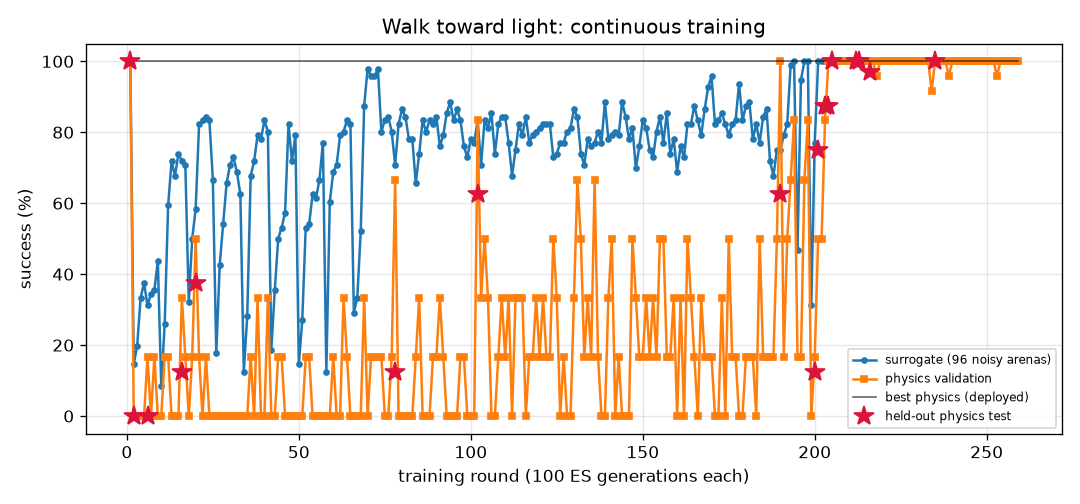
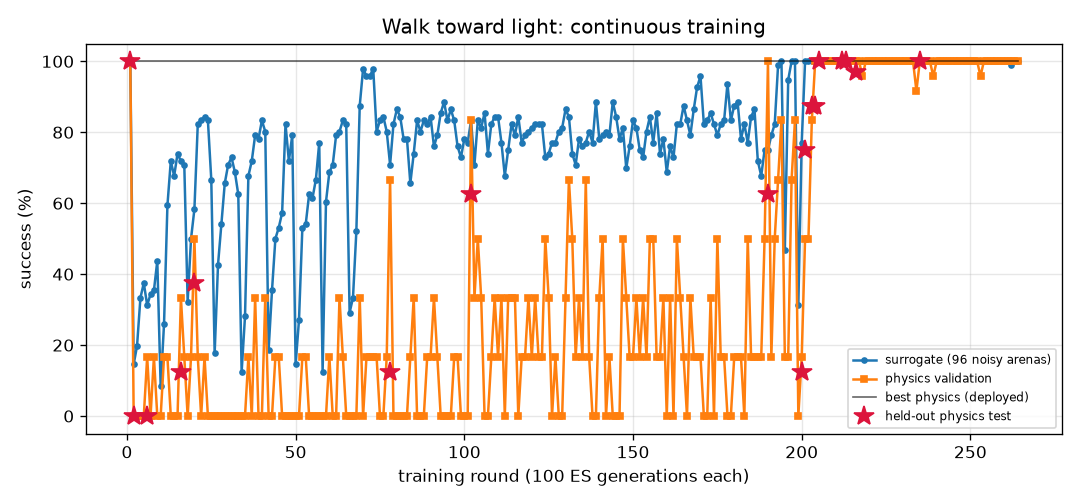
FlyLab: continuous training progress
- walk_forward: optimal, physics val 100% of 24, round 72
- turn: optimal, physics val 100% of 24, round 301
- goto: optimal, physics val 100% of 24, round 77
- odor_seek: optimal, physics val 100% of 24, round 81
- odor_avoid: optimal, physics val 100% of 24, round 395
- light_seek: optimal, physics val 100% of 24, round 264
- light_avoid: optimal, physics val 100% of 24, round 174

diff --git a/projects/09_flylab/training/light_seek/REPORT.md b/projects/09_flylab/training/light_seek/REPORT.md
@@ -1,14 +1,14 @@
 # Walk toward light (`light_seek`) — training report
 
-*Auto-generated by `train_brains.py`, last updated 2026-10-10T21:31:26.*
+*Auto-generated by `train_brains.py`, last updated 2026-10-11T12:32:59.*
 
 ![curve](curve.png)
 
 | | |
 |---|---|
-| rounds | 259 |
-| ES generations | 25900 |
-| physics runs | 2968 |
+| rounds | 264 |
+| ES generations | 26400 |
+| physics runs | 3088 |
 | status | **optimal** |
 | best brain | round 235: physics validation **100%** on 24 arenas, surrogate 100% |
 | held-out physics test | **100%** on 32 unseen arenas (95% CI 89%-100%) (errors: [0.42, 0.43, 0.43, 0.46, 0.47, 0.42, 0.43, 0.45, 0.47, 0.5, 0.42, 0.42, 0.47, 0.88, 0.89, 0.46, 0.46, 0.43, 0.45, 0.48, 0.43, 0.84, 0.43, 0.43, 0.43, 0.44, 0.44, 0.47, 0.44, 0.43, 0.44, 0.8]) |
@@ -17,11 +17,6 @@ Physics error per arena: mm from target at the end (< 1.5 and standing still = s
 
 | round | level | gens | sigma | surrogate | physics val | val errors | test | note |
 |---:|---:|---:|---:|---:|---:|---|---:|---|
-| 220 | 3 | 22000 | 0.024 | 100% | 100% | [0.63, 0.54, 0.53, 0.55, 0.49, 0.63, 0.69, 0.6, 0.54, 0.56, 0.48, 1.4, 0.49, 0.48, 0.96, 0.52, 0.49, 0.49, 0.57, 0.5, 0.65, 0.55, 0.56, 0.49] |  | restart from best |
-| 221 | 3 | 22100 | 0.024 | 100% | 100% | [0.74, 0.8, 0.56, 0.58, 0.68, 0.76, 0.65, 0.61, 0.57, 0.5, 0.54, 0.64, 0.6, 1.23, 0.51, 0.66, 1.11, 0.54, 0.66, 1.02, 0.66, 0.67, 1.2, 0.98] |  |  |
-| 222 | 3 | 22200 | 0.024 | 100% | 100% | [1.1, 0.59, 0.64, 0.47, 0.67, 0.59, 0.73, 0.59, 0.52, 0.82, 0.56, 0.5, 0.47, 0.47, 0.51, 0.49, 0.48, 0.68, 0.63, 0.99, 0.48, 0.99, 0.47, 0.6] |  |  |
-| 223 | 3 | 22300 | 0.024 | 100% | 100% | [0.99, 0.51, 0.47, 0.46, 0.45, 0.57, 0.43, 0.42, 0.45, 0.45, 0.46, 0.49, 0.55, 0.45, 0.43, 0.63, 0.54, 0.42, 0.43, 0.46, 0.47, 0.47, 0.54, 0.79] |  |  |
-| 224 | 3 | 22400 | 0.024 | 100% | 100% | [0.93, 0.52, 0.78, 0.48, 0.88, 0.48, 0.6, 0.97, 0.61, 0.51, 0.45, 0.53, 0.52, 0.97, 0.53, 0.62, 0.48, 0.54, 0.64, 0.57, 0.69, 1.02, 0.6, 0.96] |  | restart from best |
 | 225 | 3 | 22500 | 0.024 | 100% | 100% | [0.4, 0.6, 0.47, 0.41, 0.41, 0.48, 0.41, 0.49, 0.57, 0.54, 0.44, 0.43, 0.96, 0.55, 0.53, 0.43, 0.86, 0.48, 0.42, 0.46, 0.41, 0.52, 0.41, 0.49] |  |  |
 | 226 | 3 | 22600 | 0.024 | 100% | 100% | [0.49, 0.43, 0.41, 0.42, 0.45, 0.41, 0.41, 0.43, 0.45, 0.41, 0.41, 0.41, 0.42, 0.41, 0.42, 0.41, 0.41, 0.41, 0.47, 0.41, 0.43, 0.41, 0.4, 0.46] |  |  |
 | 227 | 3 | 22700 | 0.024 | 100% | 100% | [0.53, 0.57, 1.32, 0.5, 0.51, 0.47, 0.48, 0.48, 0.57, 0.54, 0.53, 0.58, 0.48, 0.49, 0.46, 0.46, 0.62, 0.52, 0.55, 0.49, 0.85, 0.93, 0.49, 0.5] |  |  |
@@ -57,3 +52,8 @@ Physics error per arena: mm from target at the end (< 1.5 and standing still = s
 | 257 | 3 | 25700 | 0.024 | 100% | 100% | [0.63, 0.46, 0.53, 0.47, 0.45, 0.59, 0.65, 0.59, 0.56, 0.49, 0.42, 0.57, 0.43, 0.55, 0.42, 0.51, 0.54, 0.56, 0.54, 0.51, 0.72, 1.01, 0.6, 0.96] |  |  |
 | 258 | 3 | 25800 | 0.024 | 100% | 100% | [0.48, 0.49, 0.43, 0.95, 0.43, 0.7, 0.51, 0.57, 0.51, 0.44, 0.44, 0.42, 0.45, 0.45, 0.43, 0.44, 0.47, 0.51, 0.47, 0.44, 0.43, 1.12, 0.44, 0.68] |  |  |
 | 259 | 3 | 25900 | 0.024 | 100% | 100% | [1.12, 0.48, 0.44, 0.47, 0.46, 0.97, 0.64, 0.55, 1.06, 0.43, 0.49, 0.62, 0.47, 0.8, 0.53, 0.65, 0.67, 0.66, 0.48, 0.55, 0.56, 1.05, 0.56, 0.42] |  | restart from best |
+| 260 | 3 | 26000 | 0.024 | 100% | 100% | [0.48, 0.52, 0.48, 1.19, 0.46, 0.47, 0.47, 0.48, 0.46, 0.48, 0.49, 0.47, 0.51, 0.57, 0.79, 0.46, 0.46, 0.92, 0.57, 0.49, 0.86, 0.52, 0.56, 0.49] |  |  |
+| 261 | 3 | 26100 | 0.024 | 100% | 100% | [0.48, 0.6, 0.46, 0.82, 0.55, 0.45, 0.5, 0.44, 0.45, 0.48, 0.45, 0.47, 0.48, 0.52, 0.86, 0.45, 0.7, 0.59, 0.74, 0.48, 0.45, 0.47, 0.5, 0.45] |  |  |
+| 262 | 3 | 26200 | 0.024 | 99% | 100% | [0.94, 0.74, 0.58, 0.87, 0.73, 0.96, 0.88, 1.1, 0.6, 0.55, 0.57, 0.5, 1.21, 0.93, 0.62, 0.57, 0.6, 0.94, 0.58, 0.59, 0.57, 0.82, 0.53, 0.53] |  |  |
+| 263 | 3 | 26300 | 0.025 | 100% | 100% | [0.45, 0.45, 0.53, 0.44, 0.5, 0.54, 0.53, 0.45, 0.74, 0.51, 0.5, 0.53, 0.52, 0.45, 0.5, 0.45, 0.46, 0.51, 0.46, 0.98, 0.88, 0.45, 0.48, 0.54] |  | restart from best |
+| 264 | 3 | 26400 | 0.024 | 100% | 100% | [0.53, 0.46, 0.42, 0.61, 0.48, 0.51, 0.41, 0.48, 0.49, 0.43, 0.5, 0.47, 0.42, 0.53, 0.42, 0.44, 0.43, 0.42, 0.45, 0.42, 0.5, 0.49, 0.61, 0.43] |  |  |

diff --git a/projects/09_flylab/training/goto/REPORT.md b/projects/09_flylab/training/goto/REPORT.md
@@ -1,14 +1,14 @@
 # Go to a location (`goto`) — training report
 
-*Auto-generated by `train_brains.py`, last updated 2026-10-10T21:56:50.*
+*Auto-generated by `train_brains.py`, last updated 2026-10-11T12:27:18.*
 
 ![curve](curve.png)
 
 | | |
 |---|---|
-| rounds | 73 |
-| ES generations | 7300 |
-| physics runs | 1542 |
+| rounds | 77 |
+| ES generations | 7700 |
+| physics runs | 1638 |
 | status | **optimal** |
 | best brain | round 46: physics validation **100%** on 24 arenas, surrogate 100% |
 | held-out physics test | **100%** on 32 unseen arenas (95% CI 89%-100%) (errors: [0.51, 0.56, 0.44, 0.63, 0.46, 0.45, 0.47, 0.6, 0.49, 0.48, 0.49, 0.47, 0.44, 0.55, 0.6, 0.51, 0.48, 0.52, 0.45, 0.45, 0.52, 0.49, 0.58, 0.47, 0.45, 0.46, 0.55, 0.46, 0.44, 0.58, 0.63, 0.61]) |
@@ -17,10 +17,6 @@ Physics error per arena: mm from target at the end (< 1.5 and standing still = s
 
 | round | level | gens | sigma | surrogate | physics val | val errors | test | note |
 |---:|---:|---:|---:|---:|---:|---|---:|---|
-| 34 | 3 | 3400 | 0.026 | 100% | 100% | [0.75, 0.72, 0.64, 0.62, 0.75, 0.64, 0.73, 0.68, 0.66, 0.63, 0.74, 0.62, 0.69, 0.61, 0.65, 0.7, 0.75, 0.66, 0.64, 0.64, 0.71, 0.64, 0.71, 0.62] |  |  |
-| 35 | 3 | 3500 | 0.024 | 100% | 100% | [0.8, 0.78, 0.65, 0.64, 0.77, 0.65, 0.79, 0.68, 0.7, 0.64, 0.74, 0.64, 0.71, 0.63, 0.64, 0.7, 0.8, 0.7, 0.64, 0.67, 0.74, 0.64, 0.73, 0.62] | 100% | new best |
-| 36 | 3 | 3600 | 0.024 | 100% | 100% | [0.68, 0.65, 0.5, 0.51, 0.67, 0.51, 0.67, 0.55, 0.58, 0.52, 0.64, 0.5, 0.58, 0.51, 0.54, 0.58, 0.69, 0.55, 0.51, 0.55, 0.6, 0.51, 0.62, 0.49] | 100% | new best |
-| 37 | 3 | 3700 | 0.024 | 100% | 100% | [0.95, 0.96, 0.79, 0.8, 0.95, 0.81, 0.92, 0.81, 0.89, 0.81, 0.92, 0.8, 0.88, 0.83, 0.87, 0.89, 0.93, 0.83, 0.81, 0.86, 0.87, 0.8, 0.91, 0.82] |  |  |
 | 38 | 3 | 3800 | 0.024 | 100% | 100% | [0.74, 0.71, 0.55, 0.57, 0.72, 0.56, 0.72, 0.6, 0.64, 0.57, 0.63, 0.57, 0.65, 0.56, 0.62, 0.66, 0.75, 0.6, 0.56, 0.63, 0.63, 0.57, 0.67, 0.57] | 100% | new best |
 | 39 | 3 | 3900 | 0.024 | 100% | 100% | [0.9, 0.85, 0.73, 0.74, 0.77, 0.73, 0.9, 0.72, 0.84, 0.68, 0.76, 0.72, 0.82, 0.65, 0.71, 0.75, 0.88, 0.74, 0.68, 0.81, 0.73, 0.7, 0.86, 0.74] |  |  |
 | 40 | 3 | 4000 | 0.024 | 99% | 100% | [0.51, 0.48, 0.35, 0.37, 0.5, 0.38, 0.51, 0.39, 0.4, 0.36, 0.43, 0.38, 0.43, 0.35, 0.34, 0.42, 0.5, 0.41, 0.36, 0.41, 0.42, 0.36, 0.45, 0.36] | 100% | new best |
@@ -57,3 +53,7 @@ Physics error per arena: mm from target at the end (< 1.5 and standing still = s
 | 71 | 3 | 7100 | 0.024 | 100% | 100% | [0.76, 0.73, 0.57, 0.59, 0.71, 0.59, 0.75, 0.6, 0.65, 0.58, 0.69, 0.58, 0.67, 0.56, 0.58, 0.64, 0.75, 0.61, 0.56, 0.64, 0.63, 0.57, 0.71, 0.58] |  |  |
 | 72 | 3 | 7200 | 0.024 | 98% | 100% | [0.81, 0.83, 0.67, 0.69, 0.83, 0.74, 0.78, 0.71, 0.71, 0.66, 0.76, 0.68, 0.8, 0.63, 0.6, 0.71, 0.83, 0.78, 0.67, 0.73, 0.72, 0.65, 0.82, 0.69] |  |  |
 | 73 | 3 | 7300 | 0.025 | 100% | 100% | [0.74, 0.75, 0.6, 0.66, 0.77, 0.64, 0.76, 0.68, 0.7, 0.62, 0.68, 0.64, 0.72, 0.61, 0.71, 0.69, 0.75, 0.63, 0.61, 0.7, 0.68, 0.63, 0.75, 0.64] |  |  |
+| 74 | 3 | 7400 | 0.024 | 100% | 100% | [0.68, 0.66, 0.49, 0.51, 0.52, 0.5, 0.67, 0.59, 0.53, 0.51, 0.53, 0.5, 0.57, 0.51, 0.55, 0.63, 0.59, 0.52, 0.51, 0.54, 0.6, 0.51, 0.59, 0.49] |  | restart from best |
+| 75 | 3 | 7500 | 0.024 | 100% | 100% | [0.77, 0.76, 0.58, 0.59, 0.58, 0.61, 0.72, 0.65, 0.63, 0.58, 0.57, 0.59, 0.69, 0.56, 0.58, 0.68, 0.72, 0.65, 0.59, 0.65, 0.65, 0.58, 0.69, 0.6] |  |  |
+| 76 | 3 | 7600 | 0.024 | 100% | 100% | [0.6, 0.56, 0.42, 0.45, 0.54, 0.45, 0.6, 0.45, 0.5, 0.42, 0.49, 0.44, 0.55, 0.39, 0.45, 0.46, 0.59, 0.46, 0.43, 0.48, 0.45, 0.43, 0.55, 0.43] |  |  |
+| 77 | 3 | 7700 | 0.024 | 99% | 100% | [0.45, 0.46, 0.32, 0.35, 0.44, 0.34, 0.46, 0.33, 0.43, 0.32, 0.41, 0.33, 0.41, 0.33, 0.38, 0.38, 0.48, 0.34, 0.32, 0.38, 0.37, 0.31, 0.45, 0.34] |  |  |

diff --git a/projects/09_flylab/training/light_avoid/REPORT.md b/projects/09_flylab/training/light_avoid/REPORT.md
@@ -1,14 +1,14 @@
 # Hide from light (`light_avoid`) — training report
 
-*Auto-generated by `train_brains.py`, last updated 2026-10-11T11:41:17.*
+*Auto-generated by `train_brains.py`, last updated 2026-10-11T11:47:05.*
 
 ![curve](curve.png)
 
 | | |
 |---|---|
-| rounds | 173 |
-| ES generations | 17300 |
-| physics runs | 4424 |
+| rounds | 174 |
+| ES generations | 17400 |
+| physics runs | 4448 |
 | status | **optimal** |
 | best brain | round 159: physics validation **100%** on 24 arenas, surrogate 100% |
 | held-out physics test | **100%** on 32 unseen arenas (95% CI 89%-100%) (errors: [14.4, 56.1, 58.0, 57.9, 57.5, 14.0, 14.4, 56.6, 56.8, 13.3, 14.1, 56.6, 57.6, 13.1, 57.3, 55.9, 57.2, 55.0, 55.2, 53.9, 55.2, 12.4, 53.8, 53.7, 14.1, 13.7, 55.0, 57.8, 56.2, 13.1, 52.8, 56.5]) |
@@ -17,7 +17,6 @@ Physics error per arena: mm gained away from source (> 6 without first approachi
 
 | round | level | gens | sigma | surrogate | physics val | val errors | test | note |
 |---:|---:|---:|---:|---:|---:|---|---:|---|
-| 134 | 3 | 13400 | 0.024 | 100% | 100% | [39.5, 39.6, 38.7, 39.8, 42.0, 39.9, 37.1, 14.5, 35.7, 13.0, 39.9, 40.9, 14.4, 40.2, 39.1, 40.7, 14.2, 41.8, 39.7, 14.4, 38.2, 40.3, 37.6, 40.6] |  |  |
 | 135 | 3 | 13500 | 0.024 | 100% | 100% | [49.4, 50.7, 50.4, 50.1, 50.9, 50.1, 48.8, 14.5, 46.0, 13.3, 49.3, 50.7, 14.3, 49.7, 50.6, 49.2, 14.2, 51.2, 50.9, 14.4, 48.2, 49.0, 48.5, 50.4] |  |  |
 | 136 | 3 | 13600 | 0.024 | 100% | 100% | [47.7, 49.2, 48.5, 47.5, 51.4, 48.0, 45.8, 14.5, 44.4, 13.5, 51.7, 51.4, 14.4, 51.0, 48.8, 47.5, 14.2, 51.5, 48.8, 14.4, 49.5, 51.5, 46.7, 51.5] |  |  |
 | 137 | 3 | 13700 | 0.024 | 96% | 100% | [35.0, 43.8, 43.2, 36.3, 46.1, 40.5, 41.5, 14.5, 41.6, 13.3, 45.9, 46.0, 14.4, 45.2, 43.3, 9.2, 14.2, 46.1, 43.6, 14.4, 8.8, 45.9, 41.7, 45.9] |  | restart from best |
@@ -57,3 +56,4 @@ Physics error per arena: mm gained away from source (> 6 without first approachi
 | 171 | 3 | 17100 | 0.024 | 100% | 100% | [55.9, 60.3, 60.0, 57.2, 59.9, 57.5, 58.7, 14.5, 12.7, 13.4, 57.6, 59.7, 14.4, 58.3, 60.2, 56.0, 14.2, 60.4, 60.6, 14.4, 55.6, 57.1, 58.5, 59.1] |  | restart from best |
 | 172 | 3 | 17200 | 0.024 | 100% | 100% | [52.7, 54.4, 54.3, 52.6, 53.3, 52.8, 53.3, 14.5, 49.5, 13.3, 52.7, 53.0, 14.4, 54.1, 54.4, 53.0, 14.2, 53.8, 54.7, 14.4, 51.7, 52.8, 53.0, 52.3] |  |  |
 | 173 | 3 | 17300 | 0.024 | 99% | 100% | [50.3, 53.4, 53.1, 51.0, 52.9, 50.6, 51.8, 14.5, 12.8, 13.4, 51.9, 52.8, 14.4, 53.1, 53.3, 52.3, 14.2, 53.5, 53.7, 14.4, 51.7, 51.8, 51.5, 52.2] |  |  |
+| 174 | 3 | 17400 | 0.025 | 100% | 100% | [38.2, 41.0, 40.2, 39.3, 44.0, 40.5, 37.6, 14.5, 39.6, 33.2, 39.6, 44.3, 14.4, 40.2, 40.7, 40.5, 14.2, 44.2, 41.4, 14.4, 37.9, 39.9, 37.0, 44.0] |  |  |

diff --git a/projects/09_flylab/training/TRAINING.md b/projects/09_flylab/training/TRAINING.md
@@ -1,6 +1,6 @@
 # FlyLab brains — continuous training log
 
-*Auto-generated by `train_brains.py`, last updated 2026-10-11T11:41:17.*
+*Auto-generated by `train_brains.py`, last updated 2026-10-11T12:32:59.*
 
 Every skill has its own brain and its own training process: surrogate ES rounds, physics validation in MuJoCo, keep-the-best selection, and a held-out physics test that is never used for selection. See each skill's report for its full round-by-round history. Mastery is progressive: passing a level (100% physics validation, >=95% surrogate) doubles the validation and test arena sets; a brain is **optimal** once it holds up at level 3 (>=95% of 24 validation arenas) AND scores >=90% on the 32 held-out test arenas. Test columns show 95% Wilson confidence intervals.
 
@@ -8,8 +8,8 @@ Every skill has its own brain and its own training process: surrogate ES rounds,
 |---|---:|---:|---:|---:|---:|---:|---|
 | [Walk forward](walk_forward/REPORT.md) | 72 | 7200 | 1678 | 100% | 100% of 24 | 100% of 32 (CI 89-100%) | **optimal** |
 | [Turn in place](turn/REPORT.md) | 301 | 30100 | 7470 | 100% | 100% of 24 | 97% of 32 (CI 84-99%) | **optimal** |
-| [Go to a location](goto/REPORT.md) | 73 | 7300 | 1542 | 100% | 100% of 24 | 100% of 32 (CI 89-100%) | **optimal** |
+| [Go to a location](goto/REPORT.md) | 77 | 7700 | 1638 | 100% | 100% of 24 | 100% of 32 (CI 89-100%) | **optimal** |
 | [Find food by smell](odor_seek/REPORT.md) | 81 | 8100 | 1246 | 100% | 100% of 24 | 100% of 32 (CI 89-100%) | **optimal** |
 | [Escape a bad smell](odor_avoid/REPORT.md) | 395 | 39500 | 6786 | 97% | 100% of 24 | 97% of 32 (CI 84-99%) | **optimal** |
-| [Walk toward light](light_seek/REPORT.md) | 259 | 25900 | 2968 | 100% | 100% of 24 | 100% of 32 (CI 89-100%) | **optimal** |
-| [Hide from light](light_avoid/REPORT.md) | 173 | 17300 | 4424 | 100% | 100% of 24 | 100% of 32 (CI 89-100%) | **optimal** |
+| [Walk toward light](light_seek/REPORT.md) | 264 | 26400 | 3088 | 100% | 100% of 24 | 100% of 32 (CI 89-100%) | **optimal** |
+| [Hide from light](light_avoid/REPORT.md) | 174 | 17400 | 4448 | 100% | 100% of 24 | 100% of 32 (CI 89-100%) | **optimal** |
